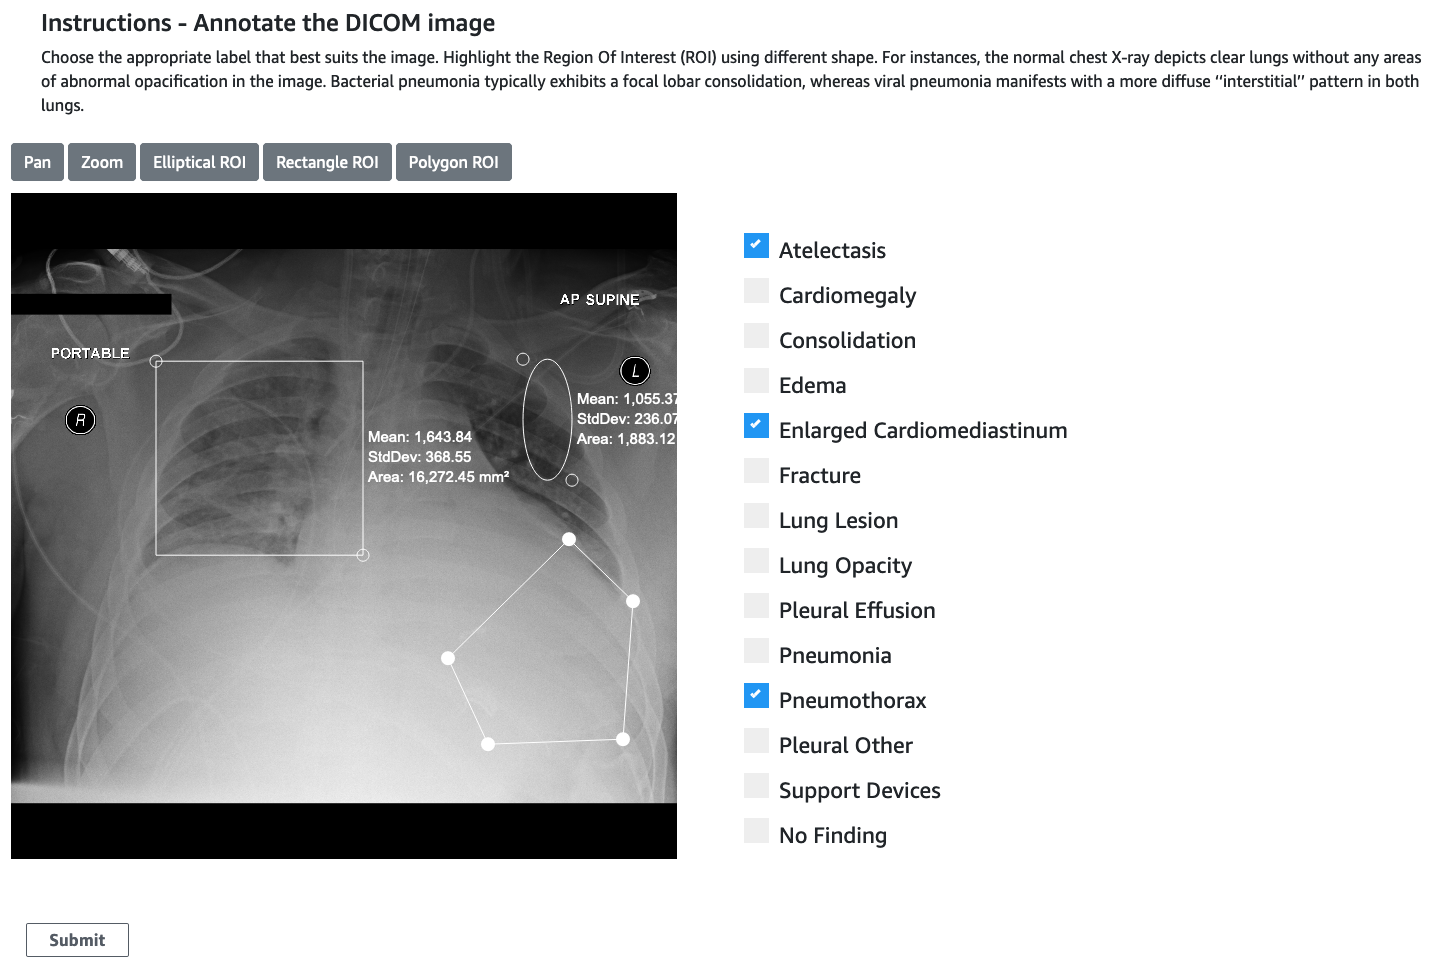
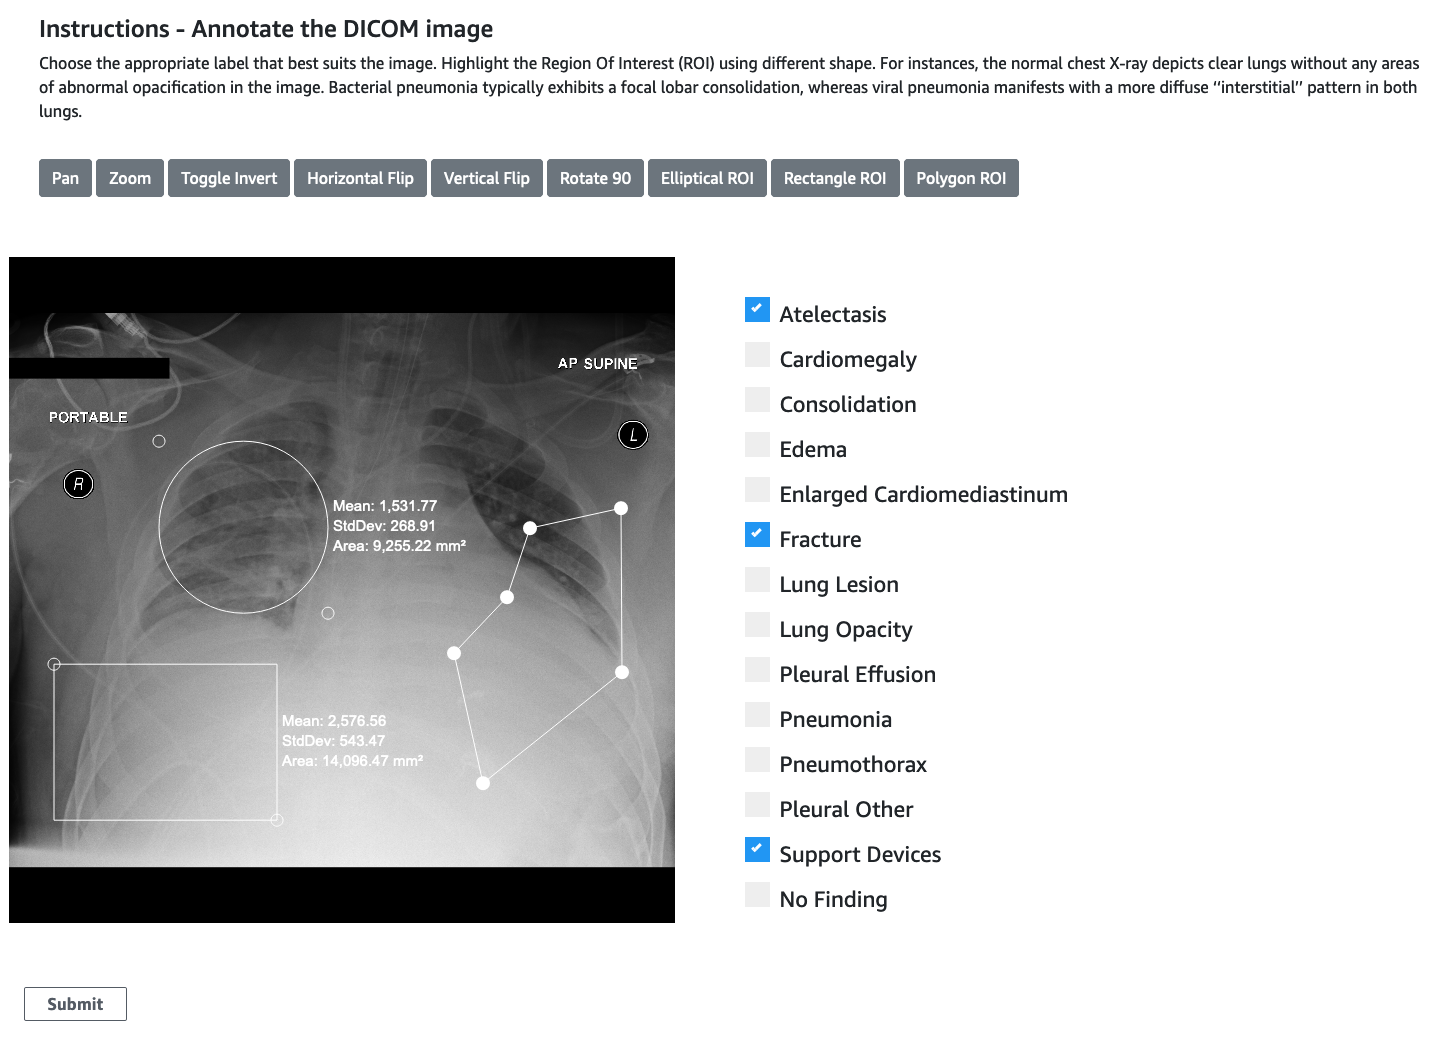
more buttons on html template

diff --git a/sagemaker-groundtruth/template.liquid.html b/sagemaker-groundtruth/template.liquid.html
@@ -33,6 +33,17 @@ SPDX-License-Identifier: MIT-0 -->
             For instances, the normal chest X-ray depicts clear lungs without any areas of abnormal opacification in the image. Bacterial pneumonia typically exhibits a focal lobar consolidation, whereas viral pneumonia manifests with a more diffuse ‘‘interstitial’’ pattern in both lungs.
         </p>
     </div>
+    <div class="row btn-toolbar" style="padding-left:60px;padding-top:20px;padding-right:60px;">
+        <button type="button" class="btn btn-secondary mr-1" id="Pan">Pan</button>
+        <button type="button" class="btn btn-secondary mr-1" id="Zoom">Zoom</button>
+        <button type="button" class="btn btn-secondary mr-1" id="invert">Toggle Invert</button>
+        <button type="button" class="btn btn-secondary mr-1" id="hflip">Horizontal Flip</button>
+        <button type="button" class="btn btn-secondary mr-1" id="vflip">Vertical Flip</button>
+        <button type="button" class="btn btn-secondary mr-1" id="rotate">Rotate 90</button>
+        <button type="button" class="btn btn-secondary mr-1" id="Elliptical ROI">Elliptical ROI</button>
+        <button type="button" class="btn btn-secondary mr-1" id="Rectangle ROI">Rectangle ROI</button>
+        <button type="button" class="btn btn-secondary mr-1" id="Polygon ROI">Polygon ROI</button>
+    </div>
     <div class="row">
         <div class="col">
             <div style="width:666;height:666;position:relative;color: white;display:inline-block;"
@@ -44,15 +55,6 @@ SPDX-License-Identifier: MIT-0 -->
                 <div class="row" 
                      id="dicomImage"
                      style="width:666;height:666;top:60px;left:30px; position:absolute">
-                </div>
-                <div class="row btn-toolbar" 
-                     id="mousemode"
-                     style="top:10px;left:30px; position:absolute">
-                    <button type="button" class="btn btn-secondary mr-1" id="Pan">Pan</button>
-                    <button type="button" class="btn btn-secondary mr-1" id="Zoom">Zoom</button>
-                    <button type="button" class="btn btn-secondary mr-1" id="Elliptical ROI">Elliptical ROI</button>
-                    <button type="button" class="btn btn-secondary mr-1" id="Rectangle ROI">Rectangle ROI</button>
-                    <button type="button" class="btn btn-secondary mr-1" id="Polygon ROI">Polygon ROI</button>
                 </div>
             </div>
         </div>
@@ -149,6 +151,30 @@ SPDX-License-Identifier: MIT-0 -->
     document.getElementById("Zoom").onclick = function() {
         disableAllTools();
         cornerstoneTools.zoom.activate(element, 1); 
+    };
+    document.getElementById('invert').onclick = function() {
+        disableAllTools();
+        const viewport = cornerstone.getViewport(element);
+        viewport.invert = !viewport.invert;
+        cornerstone.setViewport(element, viewport);
+    };
+    document.getElementById('hflip').onclick = function() {
+        disableAllTools();
+        const viewport = cornerstone.getViewport(element);
+        viewport.hflip = !viewport.hflip;
+        cornerstone.setViewport(element, viewport);
+    };
+    document.getElementById('vflip').onclick = function() {
+        disableAllTools();
+        const viewport = cornerstone.getViewport(element);
+        viewport.vflip = !viewport.vflip;
+        cornerstone.setViewport(element, viewport);
+    };
+    document.getElementById('rotate').onclick = function() {
+        disableAllTools();
+        const viewport = cornerstone.getViewport(element);
+        viewport.rotation += 90;
+        cornerstone.setViewport(element, viewport);
     };
     document.getElementById("Elliptical ROI").onclick = function() {
         disableAllTools();
